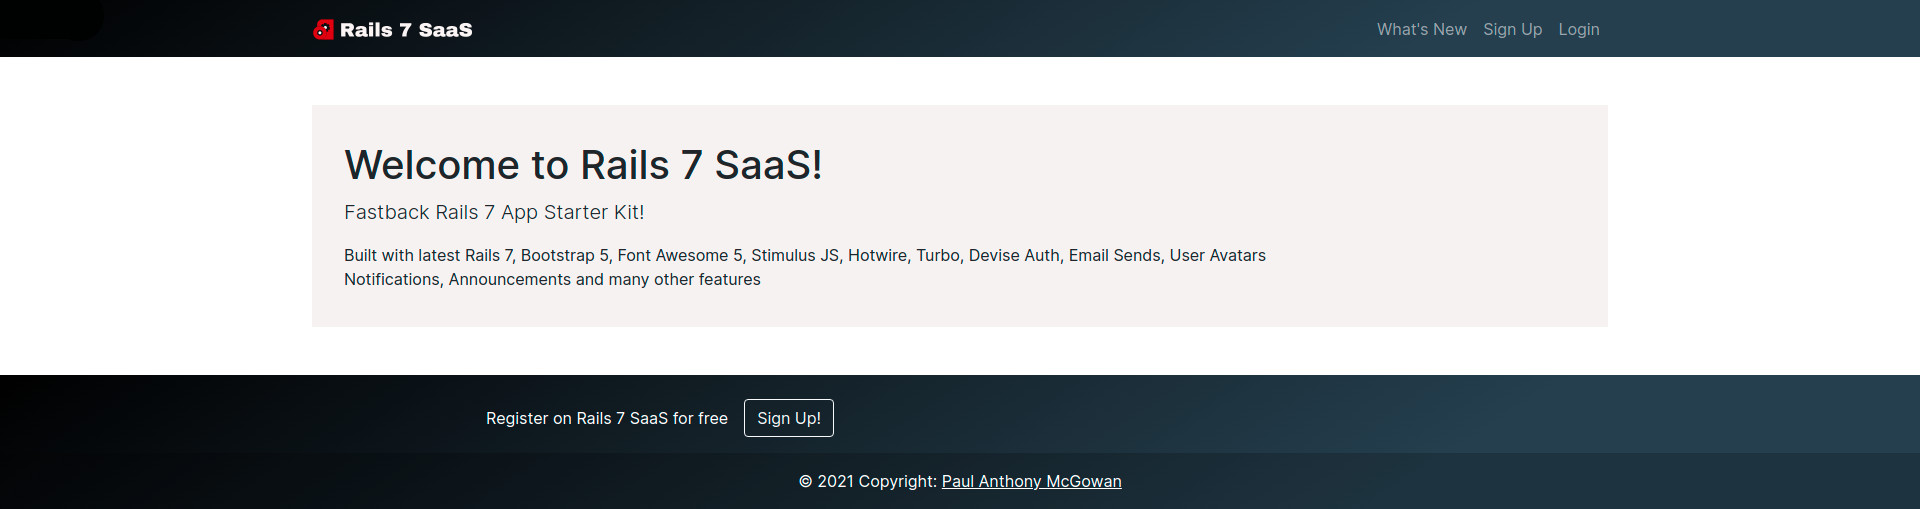
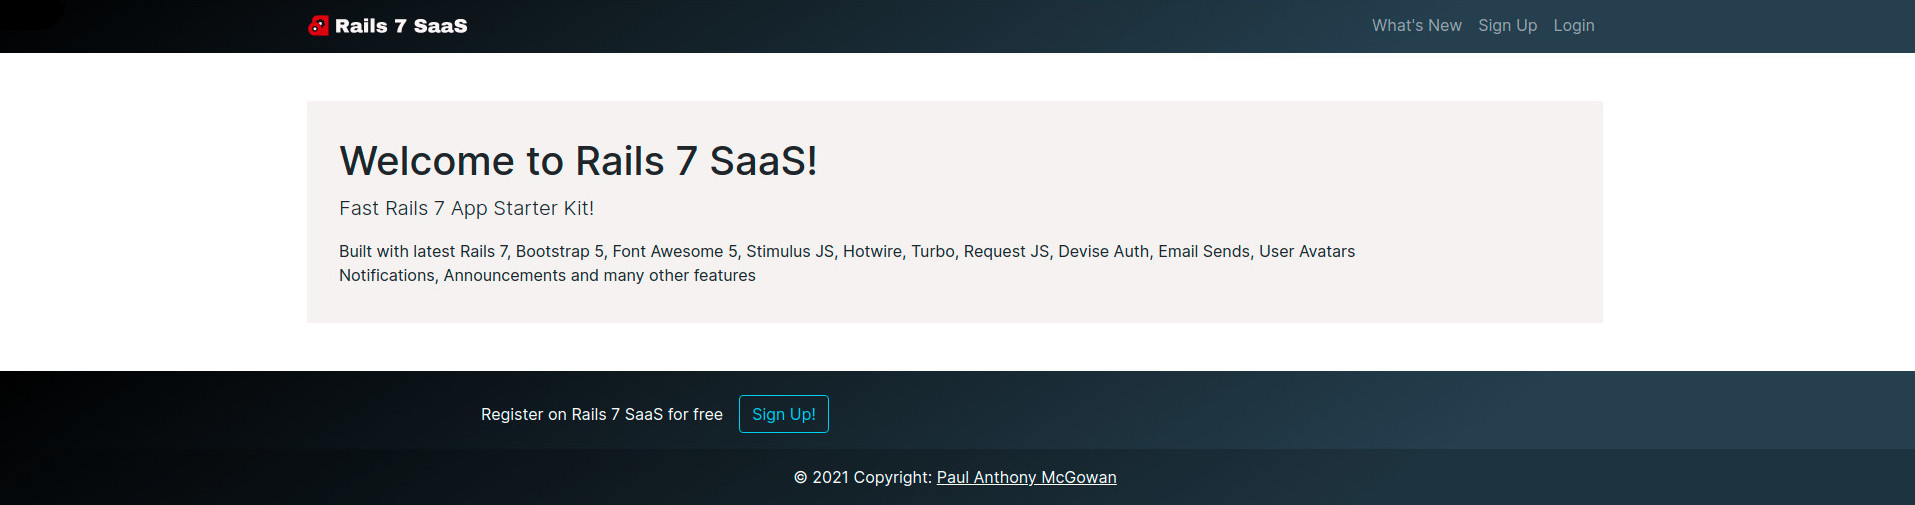
Request JS

diff --git a/spec/spec_helper.rb b/spec/spec_helper.rb
@@ -1,3 +1,5 @@
+# frozen_string_literal: true
+
 # This file was generated by the `rails generate rspec:install` command. Conventionally, all
 # specs live under a `spec` directory, which RSpec adds to the `$LOAD_PATH`.
 # The generated `.rspec` file contains `--require spec_helper` which will cause
@@ -44,53 +46,51 @@ RSpec.configure do |config|
   # triggering implicit auto-inclusion in groups with matching metadata.
   config.shared_context_metadata_behavior = :apply_to_host_groups
 
-# The settings below are suggested to provide a good initial experience
-# with RSpec, but feel free to customize to your heart's content.
-=begin
-  # This allows you to limit a spec run to individual examples or groups
-  # you care about by tagging them with `:focus` metadata. When nothing
-  # is tagged with `:focus`, all examples get run. RSpec also provides
-  # aliases for `it`, `describe`, and `context` that include `:focus`
-  # metadata: `fit`, `fdescribe` and `fcontext`, respectively.
-  config.filter_run_when_matching :focus
-
-  # Allows RSpec to persist some state between runs in order to support
-  # the `--only-failures` and `--next-failure` CLI options. We recommend
-  # you configure your source control system to ignore this file.
-  config.example_status_persistence_file_path = "spec/examples.txt"
-
-  # Limits the available syntax to the non-monkey patched syntax that is
-  # recommended. For more details, see:
-  #   - http://rspec.info/blog/2012/06/rspecs-new-expectation-syntax/
-  #   - http://www.teaisaweso.me/blog/2013/05/27/rspecs-new-message-expectation-syntax/
-  #   - http://rspec.info/blog/2014/05/notable-changes-in-rspec-3/#zero-monkey-patching-mode
-  config.disable_monkey_patching!
-
-  # Many RSpec users commonly either run the entire suite or an individual
-  # file, and it's useful to allow more verbose output when running an
-  # individual spec file.
-  if config.files_to_run.one?
-    # Use the documentation formatter for detailed output,
-    # unless a formatter has already been configured
-    # (e.g. via a command-line flag).
-    config.default_formatter = "doc"
-  end
-
-  # Print the 10 slowest examples and example groups at the
-  # end of the spec run, to help surface which specs are running
-  # particularly slow.
-  config.profile_examples = 10
-
-  # Run specs in random order to surface order dependencies. If you find an
-  # order dependency and want to debug it, you can fix the order by providing
-  # the seed, which is printed after each run.
-  #     --seed 1234
-  config.order = :random
-
-  # Seed global randomization in this process using the `--seed` CLI option.
-  # Setting this allows you to use `--seed` to deterministically reproduce
-  # test failures related to randomization by passing the same `--seed` value
-  # as the one that triggered the failure.
-  Kernel.srand config.seed
-=end
+  # The settings below are suggested to provide a good initial experience
+  # with RSpec, but feel free to customize to your heart's content.
+  #   # This allows you to limit a spec run to individual examples or groups
+  #   # you care about by tagging them with `:focus` metadata. When nothing
+  #   # is tagged with `:focus`, all examples get run. RSpec also provides
+  #   # aliases for `it`, `describe`, and `context` that include `:focus`
+  #   # metadata: `fit`, `fdescribe` and `fcontext`, respectively.
+  #   config.filter_run_when_matching :focus
+  #
+  #   # Allows RSpec to persist some state between runs in order to support
+  #   # the `--only-failures` and `--next-failure` CLI options. We recommend
+  #   # you configure your source control system to ignore this file.
+  #   config.example_status_persistence_file_path = "spec/examples.txt"
+  #
+  #   # Limits the available syntax to the non-monkey patched syntax that is
+  #   # recommended. For more details, see:
+  #   #   - http://rspec.info/blog/2012/06/rspecs-new-expectation-syntax/
+  #   #   - http://www.teaisaweso.me/blog/2013/05/27/rspecs-new-message-expectation-syntax/
+  #   #   - http://rspec.info/blog/2014/05/notable-changes-in-rspec-3/#zero-monkey-patching-mode
+  #   config.disable_monkey_patching!
+  #
+  #   # Many RSpec users commonly either run the entire suite or an individual
+  #   # file, and it's useful to allow more verbose output when running an
+  #   # individual spec file.
+  #   if config.files_to_run.one?
+  #     # Use the documentation formatter for detailed output,
+  #     # unless a formatter has already been configured
+  #     # (e.g. via a command-line flag).
+  #     config.default_formatter = "doc"
+  #   end
+  #
+  #   # Print the 10 slowest examples and example groups at the
+  #   # end of the spec run, to help surface which specs are running
+  #   # particularly slow.
+  #   config.profile_examples = 10
+  #
+  #   # Run specs in random order to surface order dependencies. If you find an
+  #   # order dependency and want to debug it, you can fix the order by providing
+  #   # the seed, which is printed after each run.
+  #   #     --seed 1234
+  #   config.order = :random
+  #
+  #   # Seed global randomization in this process using the `--seed` CLI option.
+  #   # Setting this allows you to use `--seed` to deterministically reproduce
+  #   # test failures related to randomization by passing the same `--seed` value
+  #   # as the one that triggered the failure.
+  #   Kernel.srand config.seed
 end

diff --git a/spec/rails_helper.rb b/spec/rails_helper.rb
@@ -1,9 +1,11 @@
+# frozen_string_literal: true
+
 # This file is copied to spec/ when you run 'rails generate rspec:install'
 require 'spec_helper'
 ENV['RAILS_ENV'] ||= 'test'
 require File.expand_path('../config/environment', __dir__)
 # Prevent database truncation if the environment is production
-abort("The Rails environment is running in production mode!") if Rails.env.production?
+abort('The Rails environment is running in production mode!') if Rails.env.production?
 require 'rspec/rails'
 # Add additional requires below this line. Rails is not loaded until this point!
 
